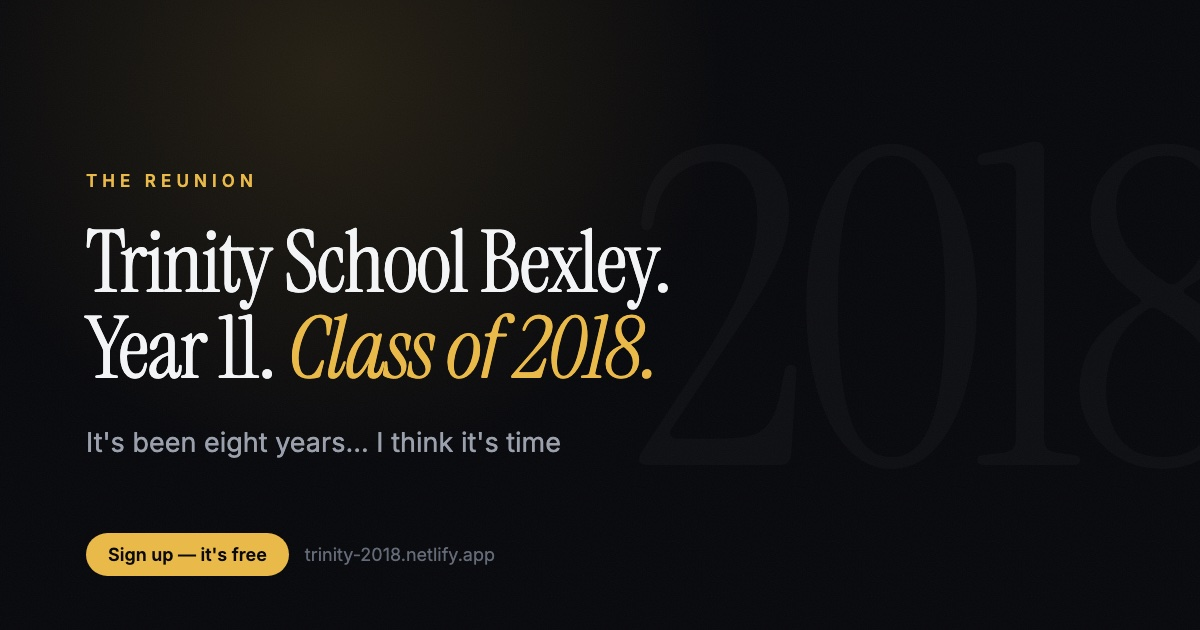
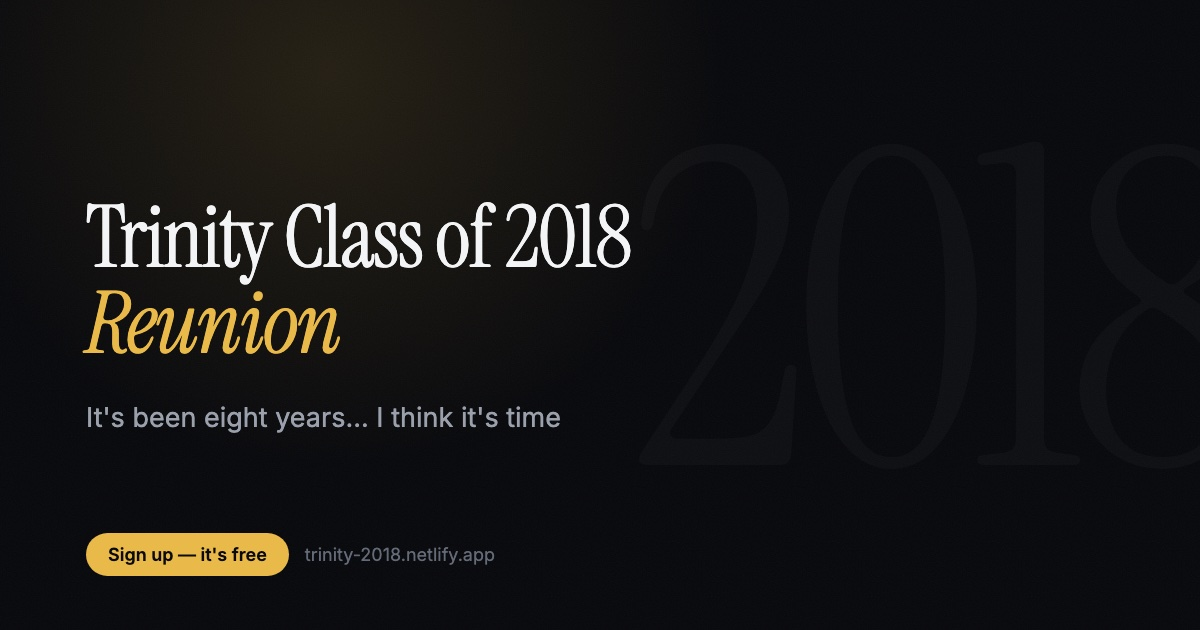
Hero: retitle to "Trinity Class of 2018 Reunion" and tighten
David's call on the title. This is the one place his original copy changes:
the h1 was "Trinity School Bexley. Year 11. Class of 2018." The phrase still
survives verbatim inside the "Who it's for?" paragraph, and the other eight
original blocks are untouched - verified, 8 of 9 kept, 1 changed on request.

- Title is now two lines, "Trinity Class of 2018" over "Reunion" in gold
  italic, instead of three. Fewer lines is most of the tightening.
- Dropped the "The Reunion" eyebrow: it sat directly above a title that now
  ends in the word Reunion. Same redundancy removed from the share card.
  The .eyebrow class stays, the 404 page still uses it.
- Trimmed the vertical rhythm: section padding 6/7rem to 5/6rem, subhead
  2rem to 1.5rem, actions 2.75rem to 2.25rem.
- Title clamp min lowered and text-wrap: balance added, so if the longer line
  has to wrap on a narrow phone it splits evenly instead of orphaning "2018".
- Page title, og:title, twitter:title and og:image:alt all brought in line,
  and og.jpg regenerated so the share card does not contradict the page.

Changed region(s): [[0.0617, 0.2714, 0.555, 0.6032], [0.0617, 0.6333, 0.4625, 0.7238]]

diff --git a/index.html b/index.html
@@ -3,7 +3,7 @@
 <head>
 <meta charset="UTF-8" />
 <meta name="viewport" content="width=device-width, initial-scale=1.0" />
-<title>Trinity School Bexley · Year 11 · Class of 2018 — The Reunion</title>
+<title>Trinity Class of 2018 Reunion</title>
 <meta name="description" content="It's been eight years. A reunion for Trinity School Bexley, Year 11, Class of 2018. Sign up free and you'll be first to hear when the date is locked." />
 <meta name="theme-color" content="#07080B" />
 
@@ -18,7 +18,7 @@
 <meta property="og:type" content="website" />
 <meta property="og:url" content="https://trinity-2018.netlify.app/" />
 <meta property="og:site_name" content="Trinity 2018 Reunion" />
-<meta property="og:title" content="Trinity School Bexley. Year 11. Class of 2018." />
+<meta property="og:title" content="Trinity Class of 2018 Reunion" />
 <meta property="og:description" content="It's been eight years... I think it's time. Sign up free — you'll be the first to hear when the date's locked." />
 <!-- Absolute URL required: preview scrapers do not resolve relative paths.
      Regenerate from og-card.html - instructions are in that file. -->
@@ -26,9 +26,9 @@
 <meta property="og:image:type" content="image/jpeg" />
 <meta property="og:image:width" content="1200" />
 <meta property="og:image:height" content="630" />
-<meta property="og:image:alt" content="Trinity School Bexley. Year 11. Class of 2018. It's been eight years... I think it's time." />
+<meta property="og:image:alt" content="Trinity Class of 2018 Reunion. It's been eight years... I think it's time." />
 <meta name="twitter:card" content="summary_large_image" />
-<meta name="twitter:title" content="Trinity School Bexley. Year 11. Class of 2018." />
+<meta name="twitter:title" content="Trinity Class of 2018 Reunion" />
 <meta name="twitter:description" content="It's been eight years... I think it's time." />
 <meta name="twitter:image" content="https://trinity-2018.netlify.app/og.jpg" />
 
@@ -100,12 +100,9 @@
     </div>
 
     <div class="hero__inner">
-      <p class="eyebrow" data-reveal>The Reunion</p>
-
       <h1 class="hero__title">
-        <span class="line" data-reveal>Trinity School Bexley.</span>
-        <span class="line" data-reveal>Year 11.</span>
-        <span class="line accent" data-reveal>Class of 2018.</span>
+        <span class="line" data-reveal>Trinity Class of 2018</span>
+        <span class="line accent" data-reveal>Reunion</span>
       </h1>
 
       <p class="hero__sub" data-reveal><strong>It's been eight years... I think it's time</strong></p>

diff --git a/styles.css b/styles.css
@@ -164,7 +164,7 @@ html.js-on .loader.is-done { opacity: 0; visibility: hidden; }
   min-height: 100svh;
   display: grid;
   align-content: center;
-  padding: 6rem var(--page) 7rem;
+  padding: 5rem var(--page) 6rem;
   overflow: hidden;
 }
 
@@ -290,18 +290,25 @@ html.js-on .loader.is-done { opacity: 0; visibility: hidden; }
 
 .hero__title {
   font-family: var(--display);
-  font-size: clamp(2.65rem, 10.5vw, 7rem);
+  /* min trimmed a little: the title line is longer than the old one, and
+     this stops it breaking into three lines on a narrow phone */
+  font-size: clamp(2.1rem, 9.4vw, 6.6rem);
   line-height: 0.98;
   letter-spacing: -0.03em;
 }
-.hero__title .line { display: block; }
+.hero__title .line {
+  display: block;
+  /* If "Trinity Class of 2018" has to wrap on a narrow phone, split it evenly
+     rather than orphaning "2018" on a line of its own */
+  text-wrap: balance;
+}
 .hero__title .accent {
   color: var(--gold);
   font-style: italic;
 }
 
 .hero__sub {
-  margin-top: 2rem;
+  margin-top: 1.5rem;
   max-width: 34rem;
   font-size: clamp(1.1rem, 3.6vw, 1.5rem);
   line-height: 1.45;
@@ -310,7 +317,7 @@ html.js-on .loader.is-done { opacity: 0; visibility: hidden; }
 .hero__sub strong { color: var(--text); font-weight: 500; }
 
 .hero__actions {
-  margin-top: 2.75rem;
+  margin-top: 2.25rem;
   display: flex;
   flex-direction: column;
   align-items: flex-start;
@@ -323,7 +330,6 @@ html.js-on .loader.is-done { opacity: 0; visibility: hidden; }
 /* Insurance for type over a photo: the crop shifts with viewport, so a bright
    patch can land under the text on some screens and not others. Costs nothing
    on the dark areas and saves legibility on the light ones. */
-.hero .eyebrow,
 .hero__title,
 .hero__sub,
 .hero__note {

diff --git a/og-card.html b/og-card.html
@@ -116,10 +116,9 @@
   <div class="grain"></div>
 
   <div class="inner">
-    <div class="eyebrow">The Reunion</div>
     <h1>
-      Trinity School Bexley.<br />
-      Year 11. <span class="gold">Class of 2018.</span>
+      Trinity Class of 2018<br />
+      <span class="gold">Reunion</span>
     </h1>
     <p class="sub">It's been eight years... I think it's time</p>
   </div>
